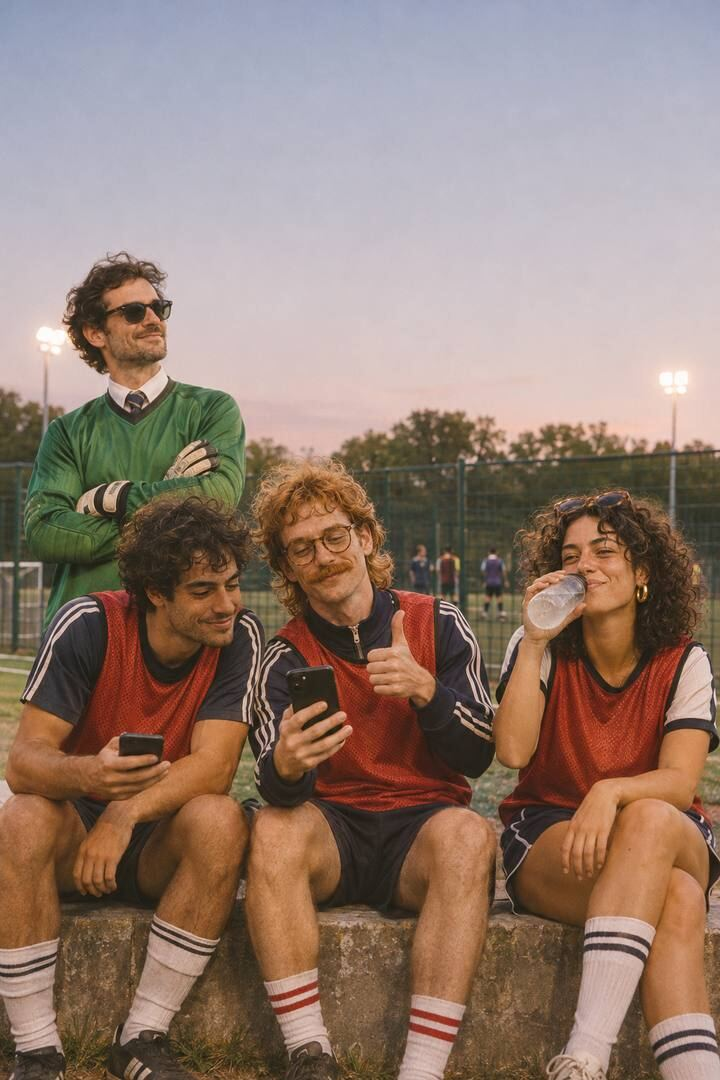
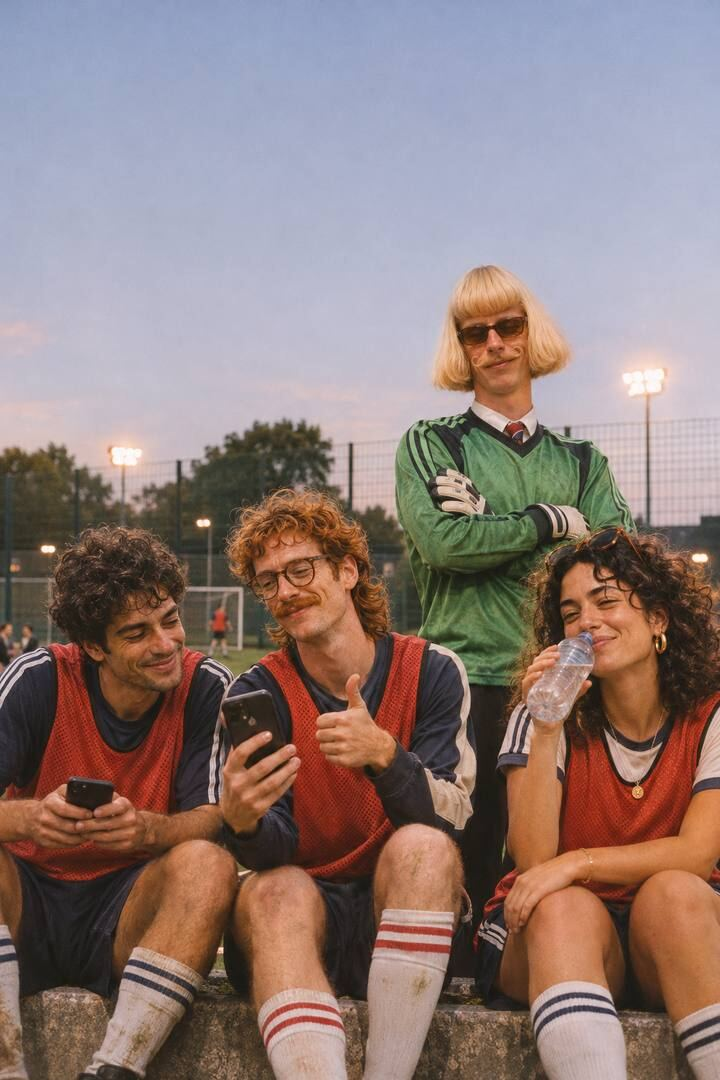
Phone app: Jean Phil in goal in the five-a-side story [testflight]
Two five-a-side photos showed someone else in goal. They are replaced
with Jean Phil, with new anchor points. The crisps story still plays
all five slides with five different photos.

Claude-Session: https://claude.ai/code/session_01TFug6Zkjw7p11FxL3guDfE

diff --git a/apps/native/src/opening/stories.ts b/apps/native/src/opening/stories.ts
@@ -186,9 +186,9 @@ export const FOCAL: Partial<Record<ImageKey, [number, number]>> = {
   "fest-c": [0.5,0.82],
   "fest-f": [0.5,0.74],
   "foot-a": [0.5,0.76],
-  "foot-b": [0.52,0.78],
+  "foot-b": [0.48,0.9],
   "foot-c": [0.48,0.78],
-  "foot-f": [0.5,0.86],
+  "foot-f": [0.5,0.94],
   "move-a": [0.48,0.76],
   "move-b": [0.5,0],
   "move-c": [0.5,0.82],
